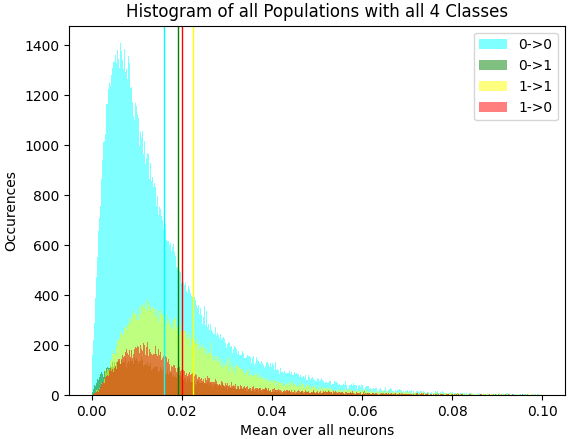
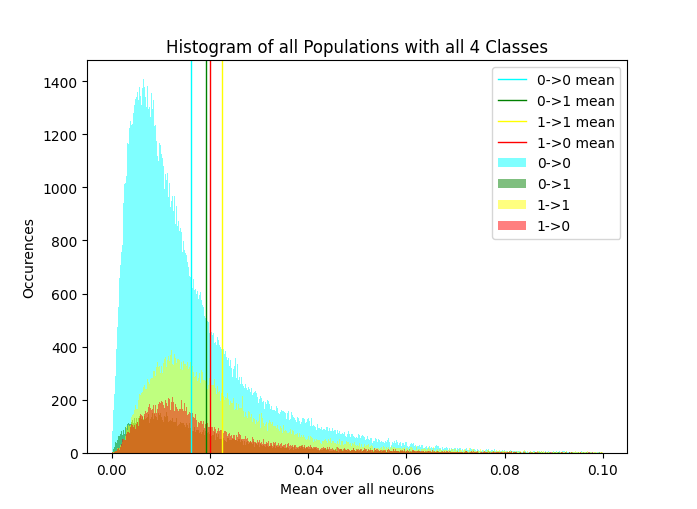
.

diff --git a/Skripte/Plotter.py b/Skripte/Plotter.py
@@ -11,6 +11,7 @@ from collections import Counter
 from copy import deepcopy
 
 
+
 class Plotter:
 
     def __init__(self, populations: list, path:str):
@@ -448,12 +449,13 @@ class Plotter:
         bins = np.linspace(0, max_bins, 500)
         colors = self.__multiclass_to_color(deepcopy(labels))
         for i in range(len(labels)):
-            plt.hist(d[labels[i]], bins, alpha=0.5, label=labels[i], color=colors[i])
-            plt.axvline(np.array(list(d[labels[i]])).mean(), color=colors[i], linewidth=1)
+            plt.kdeplot(d[labels[i]], bins, alpha=0.5, label=labels[i], color=colors[i])
+            plt.axvline(np.array(list(d[labels[i]])).mean(), color=colors[i], linewidth=1, label="{} mean".format(labels[i]))
         plt.title(title)
         plt.xlabel(x_axis)
         plt.ylabel("Occurences")
         plt.legend(loc='upper right')
+
         if show:
             plt.show()
 
@@ -551,7 +553,7 @@ class Plotter:
         c.do_SVM(kernel='rbf', c=1, gamma=0.5, class_weight='balanced')
         return c.get_cm()
 
-    def CM_for_all_pop(self, title:str, mean: bool=True, show:bool=True, dest_path:str=None):
+    def CM_for_all_pop(self, title:str, norm: bool=True, show:bool=True, dest_path:str=None):
         """
         :param Title (str) title
         :param show (bool) - Optional, shows plot of true (default is true)
@@ -561,14 +563,21 @@ class Plotter:
         for pop in self.populations:
             CM = CM + self.__get_cm(pop, self.path)
 
-        if mean:
-            CM = CM / len(self.populations)
+        if norm:
+            CM_norm = np.zeros((4, 4))
+            for row in range(len(CM)):
+                for col in range(len(CM[row])):
+                    CM_norm[row][col] = round(CM[row][col] / np.sum(CM[row]), 3)
+            CM = CM_norm
 
-        df_cm = pd.DataFrame(CM, index = [i for i in ['0->0', '0->1', '1->0', '1->1']],
+
+        df_cm = pd.DataFrame(CM_norm, index = [i for i in ['0->0', '0->1', '1->0', '1->1']],
                   columns = [i for i in ['0->0', '0->1', '1->0', '1->1']])
         #plt.figure(figsize = (10,7))
-        sns.heatmap(df_cm, annot=True,cmap='Blues', fmt='g')
+        sns.heatmap(df_cm, annot=True, cmap='Blues', fmt='g')
         plt.title(title)
+        plt.xlabel("Predicted Label")
+        plt.ylabel("True Label")
 
         if show:
             plt.show()
@@ -595,17 +604,13 @@ def get_all_pop(path: str=r'C:\Users\Sam\Desktop\BachelorInfo\Bachelor-Info\Date
             populations.add(i[:-9])
     return list(populations)
 
-#populations = get_all_pop()
-#a = Plotter(populations, r'D:\Dataframes\PCA\2')
-b = Plotter(['bl709_one_white_Pop09'], r"D:\\Dataframes\\most_active_neurons\\")
-b.compare_n_neurons("bl709_one_white_Pop09 with n most active neurons,\n Classification with SVM (rbf-Kernel, c=1, gamma=1, balanced classweights)\n and SMOTE on Training-Data")
-b.compare_n_neurons("bl709_one_white_Pop09 with n most active neurons,\n Classification with SVM (polynomial-Kernel, c=1, degree=3, balanced classweights)\n and SMOTE on Training-Data", kernel='poly')
-b.compare_n_neurons("bl709_one_white_Pop09 with n most active neurons,\n Classification with SVM (linear-Kernel, c=1, balanced classweights)\n and SMOTE on Training-Data", kernel='linear')
-#ok, nt_ok = a.sort_out_populations()
-#b = Plotter(ok, r'D:\Dataframes\single_values\mean_over_all')
+populations = get_all_pop()
+a = Plotter(populations, r'D:\Dataframes\PCA\2')
+ok, nt_ok = a.sort_out_populations()
+b = Plotter(ok, r'D:\Dataframes\single_values\mean_over_all')
 
-#b.histogram_single_values("Mean over all neurons", "Histogram of all Populations with all 4 Classes \n and a relative frequency of at least 0.05", max_bins=0.1)
-#b.CM_for_all_pop("Confusion Matrix of all Populations with all 4 classes\n and a relative frequency of at least 5% per class. \n All Values were divided by the number of used Populations")
+b.histogram_single_values("Mean over all neurons", "Histogram of all Populations with all 4 Classes", max_bins=0.1)
+#b.CM_for_all_pop("Class-wise Normalized Confusion Matrix of all Populations with all 4 classes. \n Classification via SVM(kernel='rbf', c=1, gamma=0.5, class_weight='balanced')")
 #b.boxplot_of_scores("F1-Scores with 40 most active neurons\n and SVM('rbf'-Kernel, balanced class weights) and SMOTE on Training-Data")
 #b.histogram_of_scores("Distribution of F1-Scores with 40 most active neurons\n and SVM('rbf'-Kernel, balanced class weights) and SMOTE on Training-Data", random=True)
 #b.histogram_single_values("sum over all neurons", "Histogram of all Populations with all 4 Classes \n and a relative frequency of at least 0.05", max_bins=20)

diff --git a/Skripte/Classifier.py b/Skripte/Classifier.py
@@ -15,6 +15,9 @@ from copy import deepcopy
 from imblearn.over_sampling import ADASYN, SMOTE
 from typing import Tuple
 from sklearn.metrics import confusion_matrix
+import warnings
+warnings.filterwarnings('always')
+
 
 
 class Classifier():
@@ -397,18 +400,18 @@ def get_n_random(n, remove=None, path=r'D:\Dataframes\100_Transition'):
 
 """
 #a = Classifier(['bl693_no_white_Pop05', 'bl693_no_white_Pop02', 'bl693_no_white_Pop03'], r'D:\Dataframes\tSNE\perp30')
-a = Classifier(['bl709_one_white_Pop05'], r'D:\Dataframes\most_active_neurons\40')
+a = Classifier(['bl709_one_white_Pop09'], r'D:\Dataframes\most_active_neurons\40')
 a.split_trial_wise()
 #a.print_shape()
 a.use_SMOTE()
 #a.use_SMOTE()
 #a.shuffle_labels()
-a.do_SVM(kernel='poly', c=1, gamma=0.5, class_weight='balanced')
+a.do_SVM(kernel='poly', c=1, gamma=1, class_weight='balanced')
 #print("Macro: ",a.get_f1(avg="macro"))
 #print("Micro: ", a.get_f1(avg="micro"))
 print("Weighted: ",a.get_f1(avg="weighted"))
-#a.plot_CM(title="bl693_no_white_Pop05,\n SMOTE on Training-Data\n Multiclass SVM(kernel='rbf', c=1, gamma=0.5, class_weight='balanced')")
-c = [0.00001, 0.0001, 0.001, 0.01, 0.1, 0.5, 1, 10, 25, 50, 100, 1000]
-title="bl693_no_white_Pop05 (40 most active neurons) on SVM (rbf Kernel,\n class_weight='balanced') and SMOTE on Training-Data"
-a.grid_search(title, C=c, Y=c, kernel='rbf')
+a.plot_CM(title="bl693_no_white_Pop09,\n SMOTE on Training-Data\n SVM(kernel='poly',degree=3 c=1, class_weight='balanced')")
+#c = [0.00001, 0.0001, 0.001, 0.01, 0.1, 0.5, 1, 10, 25, 50, 100, 1000]
+#title="bl693_no_white_Pop05 (40 most active neurons) on SVM (rbf Kernel,\n class_weight='balanced') and SMOTE on Training-Data"
+#a.grid_search(title, C=c, Y=c, kernel='rbf')
 """
